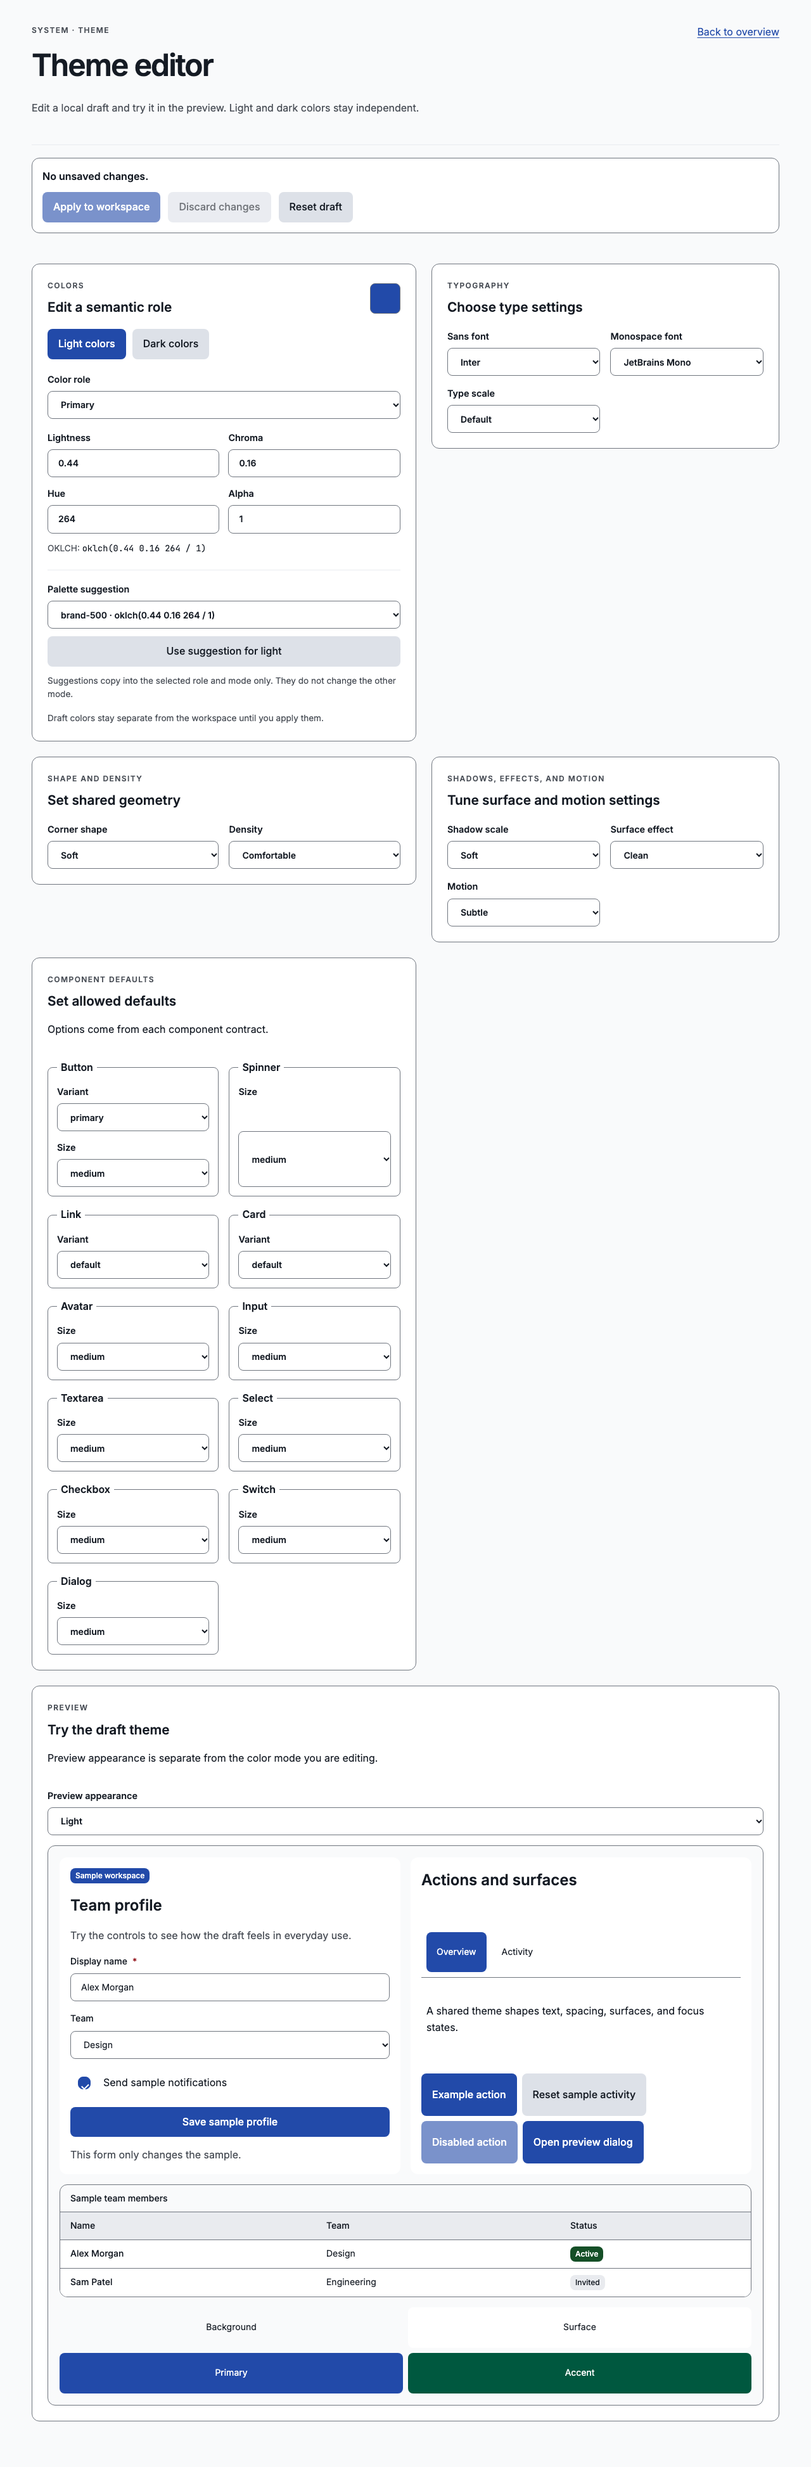
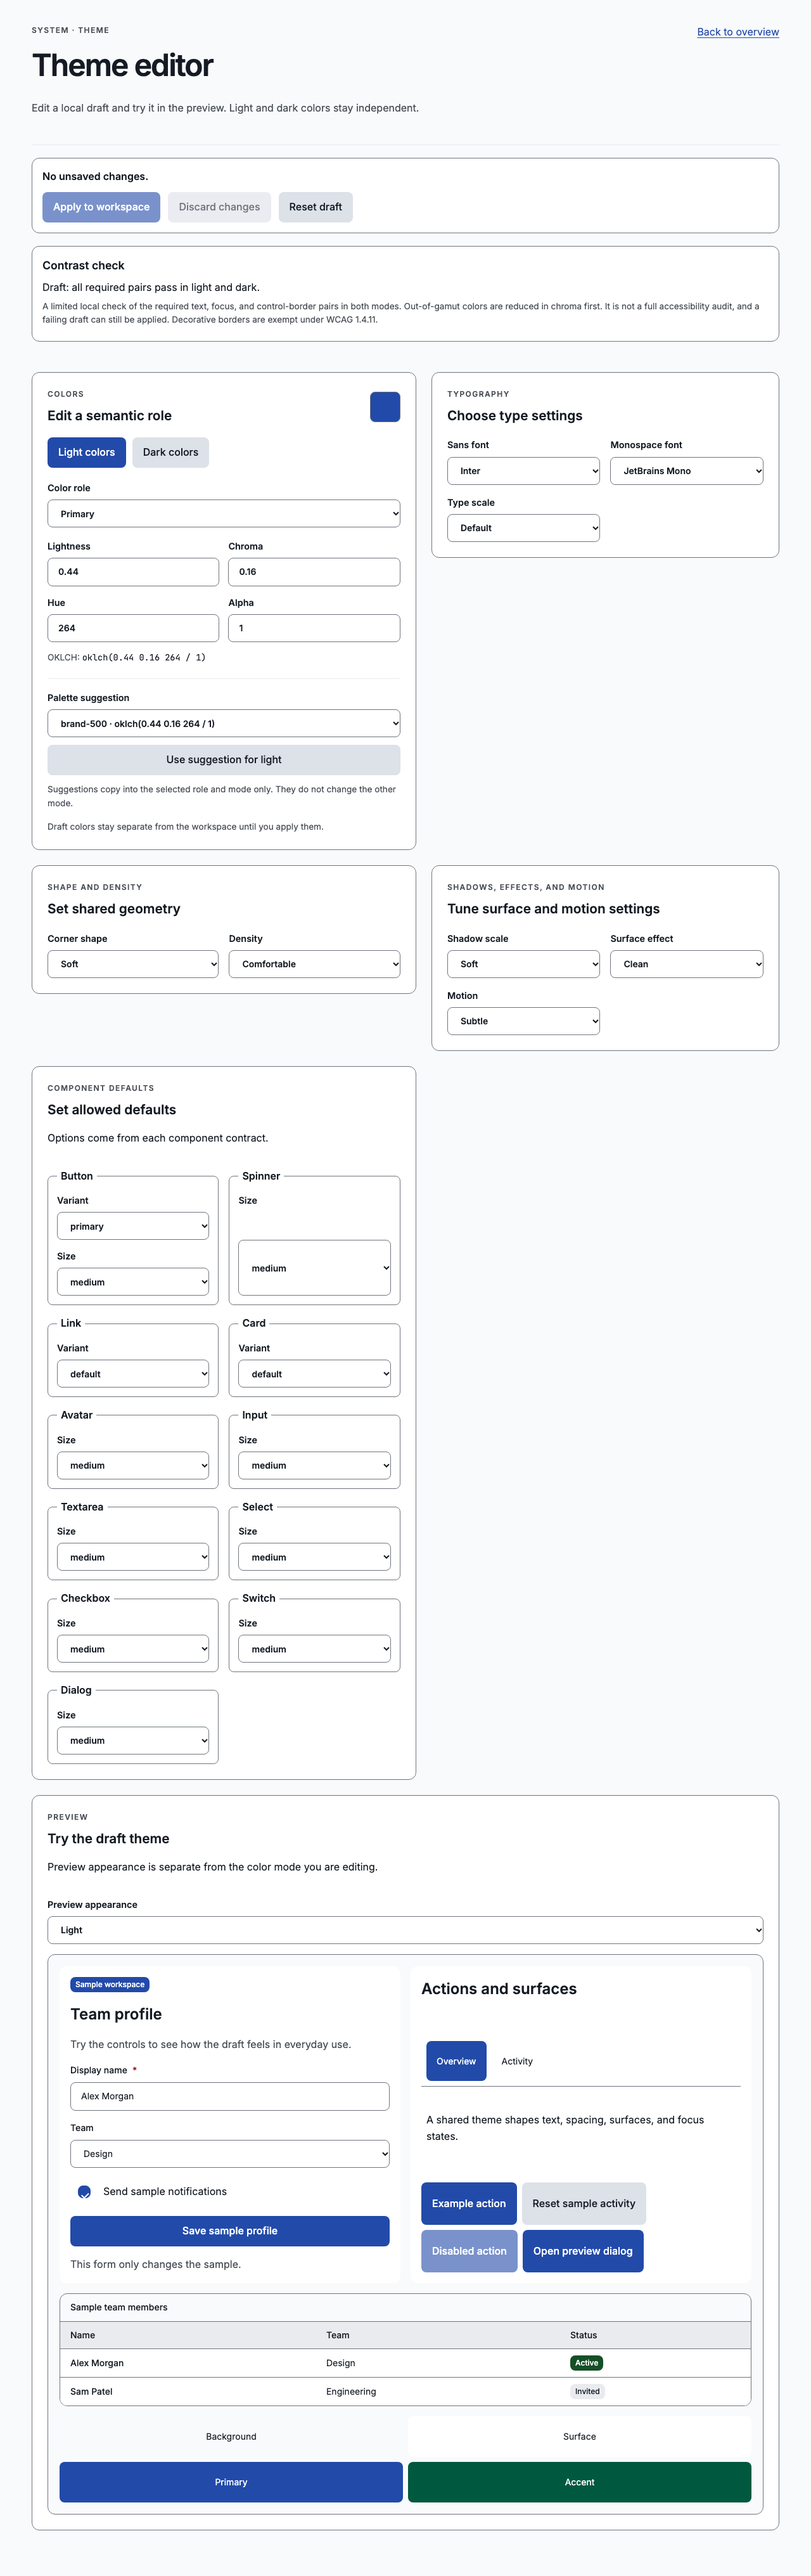
Add M3.6 local contrast calculation, gamut handling, and warnings

diff --git a/lib/accessibility/contrast.ts b/lib/accessibility/contrast.ts
@@ -1,0 +1,83 @@
+import type { Mode, Oklch, Theme } from '@/lib/contract/schema';
+
+type Rgb = [number, number, number];
+type Colors = Theme['colors'][Mode];
+
+/** Convert OKLCH to linear sRGB without clamping. */
+function toLinearSrgb({ l, c, h }: Pick<Oklch, 'l' | 'c' | 'h'>): Rgb {
+  const radians = h * Math.PI / 180;
+  const a = c * Math.cos(radians);
+  const b = c * Math.sin(radians);
+  const long = (l + 0.3963377774 * a + 0.2158037573 * b) ** 3;
+  const medium = (l - 0.1055613458 * a - 0.0638541728 * b) ** 3;
+  const short = (l - 0.0894841775 * a - 1.291485548 * b) ** 3;
+  return [
+    4.0767416621 * long - 3.3077115913 * medium + 0.2309699292 * short,
+    -1.2684380046 * long + 2.6097574011 * medium - 0.3413193965 * short,
+    -0.0041960863 * long - 0.7034186147 * medium + 1.707614701 * short,
+  ];
+}
+
+const epsilon = 1e-6;
+const inGamut = (rgb: Rgb) => rgb.every(channel => channel >= -epsilon && channel <= 1 + epsilon);
+
+/**
+ * Map a color into the sRGB display gamut by reducing chroma at constant lightness and hue,
+ * which keeps the lightness that contrast depends on. `mapped` reports whether it was out of gamut.
+ */
+export function toDisplayGamut(color: Oklch): { rgb: Rgb; mapped: boolean } {
+  const lightness = Math.max(0, Math.min(1, color.l));
+  const direct = toLinearSrgb({ l: lightness, c: color.c, h: color.h });
+  if (inGamut(direct)) return { rgb: direct.map(v => Math.max(0, Math.min(1, v))) as Rgb, mapped: false };
+  let low = 0;
+  let high = color.c;
+  for (let step = 0; step < 24; step += 1) {
+    const middle = (low + high) / 2;
+    if (inGamut(toLinearSrgb({ l: lightness, c: middle, h: color.h }))) low = middle; else high = middle;
+  }
+  const rgb = toLinearSrgb({ l: lightness, c: low, h: color.h }).map(v => Math.max(0, Math.min(1, v))) as Rgb;
+  return { rgb, mapped: true };
+}
+
+/** Composite a color over an opaque backdrop. Translucent backgrounds sit on white (light) or black (dark). */
+function composite(color: Oklch, backdrop: Rgb): { rgb: Rgb; mapped: boolean } {
+  const { rgb, mapped } = toDisplayGamut(color);
+  const alpha = Math.max(0, Math.min(1, color.alpha));
+  return { rgb: rgb.map((v, i) => v * alpha + backdrop[i] * (1 - alpha)) as Rgb, mapped };
+}
+
+const luminance = ([r, g, b]: Rgb) => 0.2126 * r + 0.7152 * g + 0.0722 * b;
+
+export function contrastRatio(foreground: Oklch, background: Oklch, mode: Mode = 'light'): { ratio: number; mapped: boolean } {
+  const page: Rgb = mode === 'light' ? [1, 1, 1] : [0, 0, 0];
+  const back = composite(background, page);
+  const front = composite(foreground, back.rgb);
+  const a = luminance(front.rgb);
+  const b = luminance(back.rgb);
+  return { ratio: (Math.max(a, b) + 0.05) / (Math.min(a, b) + 0.05), mapped: front.mapped || back.mapped };
+}
+
+export type ContrastPair = { foreground: keyof Colors; background: keyof Colors; minimum: 3 | 4.5; label: string };
+
+const roles = ['primary', 'secondary', 'accent', 'destructive', 'success', 'warning', 'info'] as const;
+const onRole = (role: (typeof roles)[number]) => `on${role[0].toUpperCase()}${role.slice(1)}` as keyof Colors;
+
+/** The required pairs from the theme spec. Border is checked only where it is a control's sole boundary. */
+export const contrastPairs: ContrastPair[] = [
+  ...(['background', 'surface'] as const).map(background => ({ foreground: 'foreground' as const, background, minimum: 4.5 as const, label: `Text on ${background}` })),
+  ...(['background', 'surface', 'muted'] as const).map(background => ({ foreground: 'mutedForeground' as const, background, minimum: 4.5 as const, label: `Muted text on ${background}` })),
+  ...roles.map(role => ({ foreground: onRole(role), background: role, minimum: 4.5 as const, label: `Text on ${role}` })),
+  ...(['background', 'surface'] as const).map(background => ({ foreground: 'focus' as const, background, minimum: 3 as const, label: `Focus indicator on ${background}` })),
+  ...(['background', 'surface'] as const).map(background => ({ foreground: 'border' as const, background, minimum: 3 as const, label: `Control border on ${background}` })),
+];
+
+export type ContrastResult = ContrastPair & { mode: Mode; ratio: number; passes: boolean; mapped: boolean };
+
+export function checkThemeContrast(theme: Theme): ContrastResult[] {
+  return (['light', 'dark'] as const).flatMap(mode => contrastPairs.map(pair => {
+    const { ratio, mapped } = contrastRatio(theme.colors[mode][pair.foreground], theme.colors[mode][pair.background], mode);
+    return { ...pair, mode, ratio, passes: Math.round(ratio * 100) / 100 >= pair.minimum, mapped };
+  }));
+}
+
+export const failingContrast = (theme: Theme) => checkThemeContrast(theme).filter(result => !result.passes);

diff --git a/tests/theme-contrast.test.ts b/tests/theme-contrast.test.ts
@@ -1,33 +1,10 @@
 import { describe, expect, it } from 'vitest';
 import { defaultTheme } from '@/lib/data/registry';
-import type { Oklch } from '@/lib/contract/schema';
+import type { Mode, Oklch } from '@/lib/contract/schema';
+import { checkThemeContrast, contrastPairs, contrastRatio, failingContrast, toDisplayGamut } from '@/lib/accessibility/contrast';
 
-function linearSrgb({ l, c, h }: Oklch): [number, number, number] {
-  const radians = h * Math.PI / 180;
-  const a = c * Math.cos(radians);
-  const b = c * Math.sin(radians);
-  const lightness = l + 0.3963377774 * a + 0.2158037573 * b;
-  const middle = l - 0.1055613458 * a - 0.0638541728 * b;
-  const short = l - 0.0894841775 * a - 1.291485548 * b;
-  const L = lightness ** 3;
-  const M = middle ** 3;
-  const S = short ** 3;
-  return [
-    4.0767416621 * L - 3.3077115913 * M + 0.2309699292 * S,
-    -1.2684380046 * L + 2.6097574011 * M - 0.3413193965 * S,
-    -0.0041960863 * L - 0.7034186147 * M + 1.707614701 * S,
-  ].map(channel => Math.max(0, Math.min(1, channel))) as [number, number, number];
-}
-
-function luminance(color: Oklch): number {
-  const [r, g, b] = linearSrgb(color);
-  return 0.2126 * r + 0.7152 * g + 0.0722 * b;
-}
-
-function contrast(a: Oklch, b: Oklch): number {
-  const first = luminance(a);
-  const second = luminance(b);
-  return (Math.max(first, second) + 0.05) / (Math.min(first, second) + 0.05);
+function contrast(a: Oklch, b: Oklch, mode: Mode = 'light'): number {
+  return contrastRatio(a, b, mode).ratio;
 }
 
 describe('default theme contrast', () => {
@@ -49,4 +26,42 @@ describe('default theme contrast', () => {
       }
     });
   }
+});
+
+describe('local contrast calculation', () => {
+  const black: Oklch = { l: 0, c: 0, h: 0, alpha: 1 };
+  const white: Oklch = { l: 1, c: 0, h: 0, alpha: 1 };
+
+  it('matches known ratios and is symmetric', () => {
+    expect(contrastRatio(black, white).ratio).toBeCloseTo(21, 1);
+    expect(contrastRatio(white, white).ratio).toBeCloseTo(1, 5);
+    expect(contrastRatio(white, black).ratio).toBeCloseTo(contrastRatio(black, white).ratio, 5);
+  });
+
+  it('maps out-of-gamut colors by reducing chroma and reports it', () => {
+    const vivid: Oklch = { l: 0.7, c: 0.4, h: 145, alpha: 1 };
+    const result = toDisplayGamut(vivid);
+    expect(result.mapped).toBe(true);
+    expect(result.rgb.every(v => v >= 0 && v <= 1)).toBe(true);
+    expect(toDisplayGamut({ l: 0.5, c: 0.02, h: 200, alpha: 1 }).mapped).toBe(false);
+  });
+
+  it('composites translucent colors over the backdrop for the mode', () => {
+    const half: Oklch = { ...black, alpha: 0.5 };
+    expect(contrastRatio(half, white, 'light').ratio).toBeLessThan(contrastRatio(black, white, 'light').ratio);
+    expect(contrastRatio(half, { ...white, alpha: 0 }, 'dark').ratio).toBeCloseTo(1, 5);
+  });
+
+  it('passes every required pair for the default theme in both modes', () => {
+    expect(failingContrast(defaultTheme)).toEqual([]);
+    expect(checkThemeContrast(defaultTheme)).toHaveLength(2 * contrastPairs.length);
+  });
+
+  it('flags a failing pair in only the edited mode', () => {
+    const weak = { ...defaultTheme, colors: { ...defaultTheme.colors, dark: { ...defaultTheme.colors.dark, foreground: { ...defaultTheme.colors.dark.background } } } };
+    const failures = failingContrast(weak);
+    expect(failures.length).toBeGreaterThan(0);
+    expect(failures.every(f => f.mode === 'dark')).toBe(true);
+    expect(failures[0]).toMatchObject({ foreground: 'foreground', passes: false });
+  });
 });

diff --git a/app/system/theme/page.tsx b/app/system/theme/page.tsx
@@ -9,6 +9,7 @@ import { Input } from '@/components/ui/input';
 import { Select } from '@/components/ui/select';
 import { registry } from '@/lib/data/registry';
 import type { Mode, Oklch } from '@/lib/contract/schema';
+import { failingContrast } from '@/lib/accessibility/contrast';
 import { applyDraft, discardDraft, resetDraft } from '@/lib/theme/stores';
 import styles from './theme.module.css';
 import { ThemePreview } from './ThemePreview';
@@ -31,6 +32,7 @@ export default function ThemeEditorPage() {
   const stores = useThemeStores();
   const theme = useStore(stores.draft, state => state.theme);
   const setTheme = useStore(stores.draft, state => state.setTheme);
+  const applied = useStore(stores.applied, state => state.settings.theme);
   const dirty = useStore(stores.draft, state => state.dirty);
   const persistence = useStore(stores.applied, state => state.persistence);
   const initialized = useStore(stores.applied, state => state.initialized);
@@ -41,6 +43,8 @@ export default function ThemeEditorPage() {
   const [paletteId, setPaletteId] = useState(Object.keys(theme.palette)[0] ?? '');
   const [message, setMessage] = useState('');
   const color = theme.colors[mode][role];
+  const draftFailures = useMemo(() => failingContrast(theme), [theme]);
+  const appliedFailures = useMemo(() => failingContrast(applied), [applied]);
   const cssColor = useMemo(() => `oklch(${color.l} ${color.c} ${color.h} / ${color.alpha})`, [color]);
 
   function updateChannel(channel: Channel, value: number) {
@@ -103,6 +107,12 @@ export default function ThemeEditorPage() {
       </div>
       {persistence === 'session-only' && <p className={styles.status}>Changes stay in this tab and reset on refresh because browser storage is unavailable.</p>}
       {notice && persistence !== 'session-only' && <p className={styles.status}>{notice}</p>}
+    </section>
+    <section className={styles.contrast} aria-labelledby="contrast-heading">
+      <h2 id="contrast-heading">Contrast check</h2>
+      <ContrastReport title="Draft" failures={draftFailures} />
+      {dirty && <ContrastReport title="Applied workspace theme" failures={appliedFailures} />}
+      <p className={styles.note}>A limited local check of the required text, focus, and control-border pairs in both modes. Out-of-gamut colors are reduced in chroma first. It is not a full accessibility audit, and a failing draft can still be applied. Decorative borders are exempt under WCAG 1.4.11.</p>
     </section>
     <div className={styles.controls}>
       <section className={styles.panel} aria-labelledby="color-heading">
@@ -226,4 +236,13 @@ export default function ThemeEditorPage() {
       </section>
     </div>
   </main>;
+}
+
+type Failures = ReturnType<typeof failingContrast>;
+function ContrastReport({ title, failures }: { title: string; failures: Failures }) {
+  if (failures.length === 0) return <p className={styles.contrastOk}>{title}: all required pairs pass in light and dark.</p>;
+  return <div className={styles.contrastWarn} role="group" aria-label={`${title} contrast warnings`}>
+    <p><strong>{title}: {failures.length} required {failures.length === 1 ? 'pair fails' : 'pairs fail'}.</strong> This theme will not be marked as verified.</p>
+    <ul>{failures.map(f => <li key={`${f.mode}-${f.foreground}-${f.background}`}>{f.mode === 'light' ? 'Light' : 'Dark'}: {f.label} is {f.ratio.toFixed(2)}:1, needs {f.minimum}:1{f.mapped ? ' (out-of-gamut color adjusted)' : ''}.</li>)}</ul>
+  </div>;
 }

diff --git a/tests/browser/theme-lifecycle.spec.ts b/tests/browser/theme-lifecycle.spec.ts
@@ -57,3 +57,22 @@ test('blocked storage keeps applied changes session-only', async ({ page }) => {
   await expect(page.getByText('No unsaved changes.')).toBeVisible();
   await expect(page.getByRole('combobox', { name: 'Density' })).toHaveValue('compact');
 });
+
+test('contrast warnings follow the draft and never block Apply', async ({ page }) => {
+  await page.goto('/system/theme');
+  await expect(page.getByText('Draft: all required pairs pass in light and dark.')).toBeVisible();
+  await page.getByRole('combobox', { name: 'Color role' }).selectOption('foreground');
+  await page.getByRole('spinbutton', { name: 'Lightness' }).fill('0.97');
+  const warning = page.getByRole('group', { name: 'Draft contrast warnings' });
+  await expect(warning).toContainText('Light: Text on background');
+  await expect(warning).toContainText('will not be marked as verified');
+  await expect(page.getByRole('group', { name: 'Applied workspace theme contrast warnings' })).toHaveCount(0);
+  // The other mode is unaffected.
+  await expect(warning).not.toContainText('Dark:');
+  await page.getByRole('button', { name: 'Apply to workspace' }).click();
+  await expect(page.getByText('Draft applied to the workspace and saved.')).toBeVisible();
+  await expect(page.getByRole('group', { name: 'Draft contrast warnings' })).toBeVisible();
+  await page.getByRole('button', { name: 'Reset draft' }).click();
+  await expect(page.getByText('Draft: all required pairs pass in light and dark.')).toBeVisible();
+  await expect(page.getByRole('group', { name: 'Applied workspace theme contrast warnings' })).toContainText('Light: Text on background');
+});

diff --git a/app/system/theme/theme.module.css b/app/system/theme/theme.module.css
@@ -43,3 +43,11 @@
 .unsaved { margin: 0; font-weight: 600; }
 .unsaved[data-dirty='true']::before { content: '● '; color: var(--sys-color-warning); }
 .actionButtons { display: flex; flex-wrap: wrap; gap: 12px; }
+
+.contrast { margin: 0 0 20px; padding: 16px; border: 1px solid var(--sys-color-border); border-radius: var(--sys-radius-panel); background: var(--sys-color-surface); }
+.contrast h2 { margin: 0 0 8px; font-size: 1.1rem; }
+.contrast p { margin: 6px 0; }
+.contrastOk { color: var(--sys-color-foreground); }
+.contrastWarn { margin: 8px 0; padding: 12px; border: 1px solid var(--sys-color-warning); border-left-width: 4px; border-radius: var(--sys-radius-control); }
+.contrastWarn ul { margin: 8px 0 0; padding-left: 20px; }
+.note { color: var(--sys-color-muted-foreground); font-size: .85rem; }

diff --git a/docs/planning/milestones-and-tasks.md b/docs/planning/milestones-and-tasks.md
@@ -74,7 +74,7 @@ Goal: top-level decisions propagate predictably without leaking preview edits.
 - [x] M3.3 Add typography, radius, density, shadows, clean/depth effects, motion, and valid component-default controls. [Evidence](../evidence/M3/M3.3/review.md)
 - [x] M3.4 Render a scoped multi-component preview; keep portal content inside its theme scope. [Evidence](../evidence/M3/M3.4/review.md)
 - [x] M3.5 Implement Apply, Discard, Reset draft, unsaved indicator, session navigation, and refresh behavior. [Evidence](../evidence/M3/M3.5/review.md)
-- [ ] M3.6 Add local contrast calculation for the defined pairs, gamut handling, and warnings for failing draft/applied pairs.
+- [x] M3.6 Add local contrast calculation for the defined pairs, gamut handling, and warnings for failing draft/applied pairs. [Evidence](../evidence/M3/M3.6/review.md)
 - [ ] M3.7 Handle blocked/corrupt/incompatible storage, cross-tab Web Lock serialization, stale-draft conflict rejection, latest-envelope sync through the `storage` event, session-only fallback when Web Locks is unavailable, and reduced-motion override.
 - [ ] M3.8 Test lifecycle, global appearance changes during an open draft, mode independence, token propagation, and first paint after OS mode changes between visits. Cover missing/stale/corrupt bootstrap caches, the bootstrap-to-hydration handoff, a resolver test that every emitted value matches the bootstrap allowlist, and controlled concurrent two-tab Apply/appearance sequences, competing stale drafts, queued storage events, and missing-lock fallback.
 
@@ -166,7 +166,7 @@ Add one entry when a milestone is reviewed. Keep check output and screenshots un
 | --- | --- | --- | --- | --- |
 | M1 | Complete | 2026-10-08 | [M1 review](../evidence/M1/review.md) | Full A02/A15 close in later milestones. |
 | M2 | In progress | 2026-10-09 | [M2 task evidence](../evidence/M2/review.md) | Automated M2.8 review is complete; the quality gate remains open for human keyboard, screen-reader, and WCAG review. |
-| M3 | In progress | 2026-10-13 | [M3.5 review](../evidence/M3/M3.5/review.md) | M3.6–M3.8 remain open. |
+| M3 | In progress | 2026-10-13 | [M3.6 review](../evidence/M3/M3.6/review.md) | M3.7–M3.8 remain open. |
 | M4 | Not started | — | — | — |
 | M5 | Not started | — | — | — |
 | M6 | Not started | — | — | — |

diff --git a/docs/evidence/M3/M3.6/review.md b/docs/evidence/M3/M3.6/review.md
@@ -1,0 +1,13 @@
+# M3.6 Contrast calculation, gamut handling, and warnings
+
+Date: 2026-10-13
+
+`lib/accessibility/contrast.ts` is a pure module (no React or browser APIs) that checks the required pairs from the theme spec in both modes: text on background/surface, muted text on background/surface/muted, each `on*` role on its role, focus on background/surface (3:1), and control borders on background/surface (3:1). Decorative borders are exempt and are not reported as failures.
+
+- **Gamut:** out-of-gamut OKLCH colors are mapped into sRGB by reducing chroma at constant lightness and hue (binary search), so the lightness that contrast depends on is preserved. Results report when a color was adjusted.
+- **Alpha:** translucent colors are composited over their background; a translucent background sits on white (light) or black (dark).
+- **UI:** the Theme editor shows a Contrast check section with draft results and, while the draft differs, the applied theme's results. Each failure names the mode, pair, measured ratio and minimum. Warnings state the theme will not be marked verified, and Apply stays enabled. The copy says this is a limited local check, not an audit.
+
+Verification: `npm run check` passed (112 unit tests, 5 new, including default-theme pass in both modes, one-mode failure isolation, known ratios, gamut mapping, alpha). The existing default-theme contrast test now uses the shared module and still passes. All 28 production browser tests passed, including a new journey: editing foreground lightness warns only for light, Apply still works, Reset shows a clean draft against a warning applied theme. Human WCAG review remains open.
+
+M3.6 is complete. Next: M3.7 storage failures, Web Lock serialization, stale-draft rejection, `storage` event sync, and the reduced-motion override.
